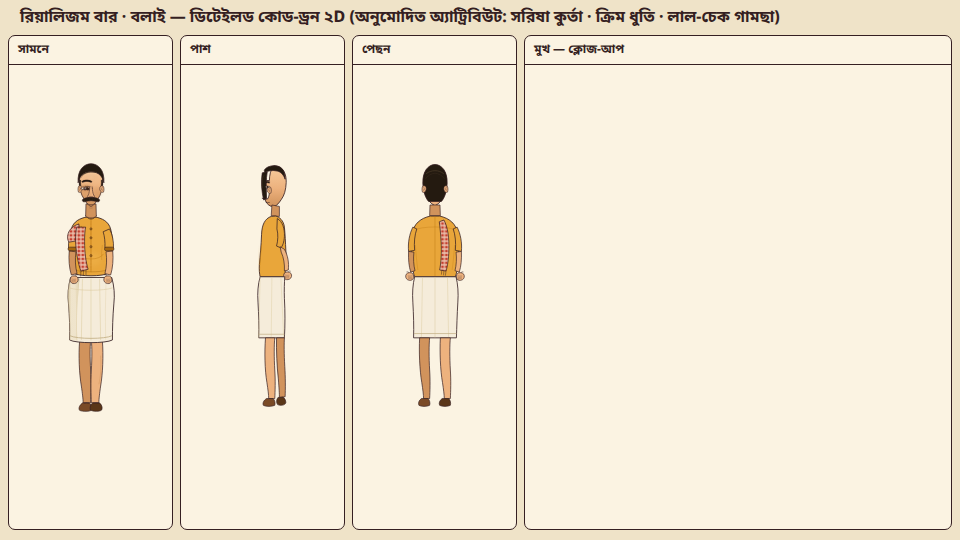
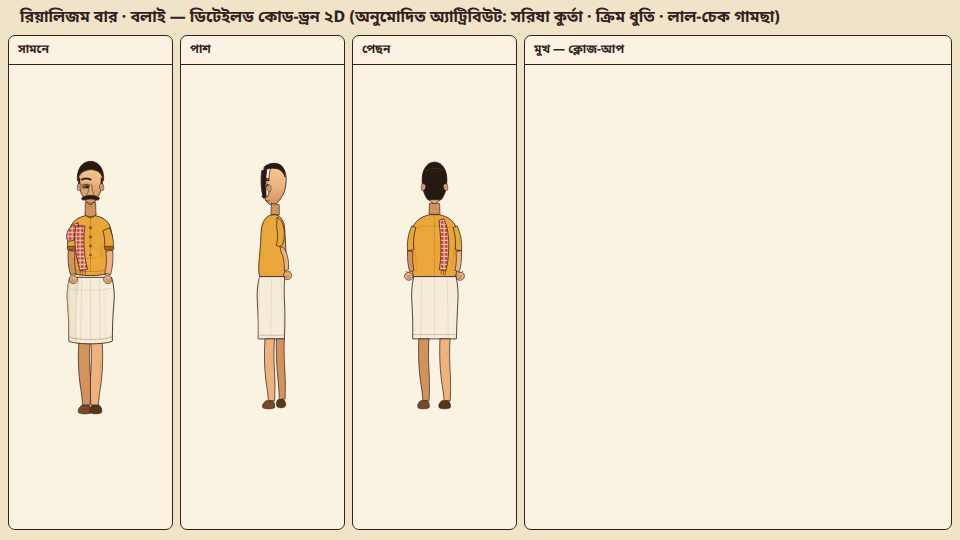
fix(art): CU double-translate bug (face off-viewBox) + tight viewBoxes

diff --git a/src/components/characters/BolaiReal.tsx b/src/components/characters/BolaiReal.tsx
@@ -204,7 +204,7 @@ const HandOpen: React.FC<{x: number; y: number; flip?: boolean}> = ({x, y, flip}
 export const BolaiReal: React.FC<{view?: 'front' | 'side' | 'back'}> = ({view = 'front'}) => {
   if (view === 'side') {
     return (
-      <svg viewBox="0 0 840 1700" width="100%" height="100%" preserveAspectRatio="xMidYMid meet">
+      <svg viewBox="256 92 330 1424" width="100%" height="100%" preserveAspectRatio="xMidYMid meet">
         <Defs />
         <g stroke={INK} fill="none">
           {/* head profile */}
@@ -252,7 +252,7 @@ export const BolaiReal: React.FC<{view?: 'front' | 'side' | 'back'}> = ({view = 
   }
   if (view === 'back') {
     return (
-      <svg viewBox="0 0 840 1700" width="100%" height="100%" preserveAspectRatio="xMidYMid meet">
+      <svg viewBox="256 92 330 1424" width="100%" height="100%" preserveAspectRatio="xMidYMid meet">
         <Defs />
         <g stroke={INK} fill="none">
           {/* head back */}
@@ -295,7 +295,7 @@ export const BolaiReal: React.FC<{view?: 'front' | 'side' | 'back'}> = ({view = 
   }
   // FRONT (default)
   return (
-    <svg viewBox="0 0 840 1700" width="100%" height="100%" preserveAspectRatio="xMidYMid meet">
+    <svg viewBox="256 92 330 1424" width="100%" height="100%" preserveAspectRatio="xMidYMid meet">
       <Defs />
       <g stroke={INK} fill="none">
         {/* ---- legs (behind dhoti) ---- */}
@@ -377,9 +377,9 @@ export const BolaiReal: React.FC<{view?: 'front' | 'side' | 'back'}> = ({view = 
 
 /* Face close-up crop (for the detail sheet) */
 export const FaceCUReal: React.FC = () => (
-  <svg viewBox="338 96 164 270" width="100%" height="100%" preserveAspectRatio="xMidYMid meet">
+  <svg viewBox="336 94 168 274" width="100%" height="100%" preserveAspectRatio="xMidYMid meet">
     <Defs />
-    <FaceReal />
+    <FaceReal cx={0} cy={0} scale={1} />
   </svg>
 );
 
